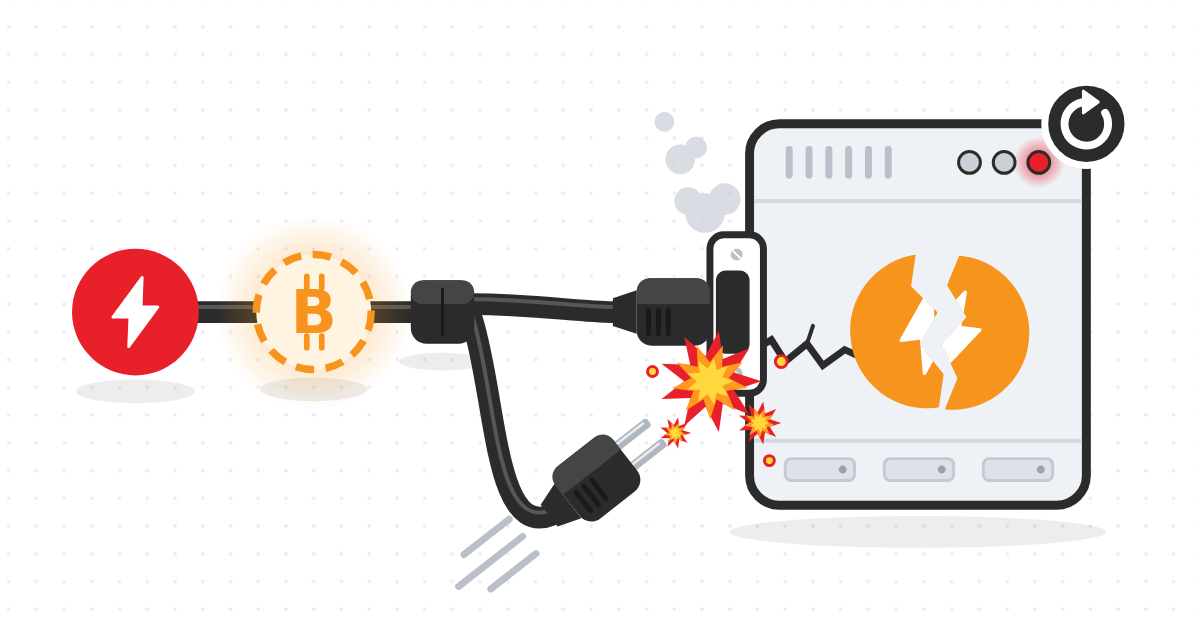
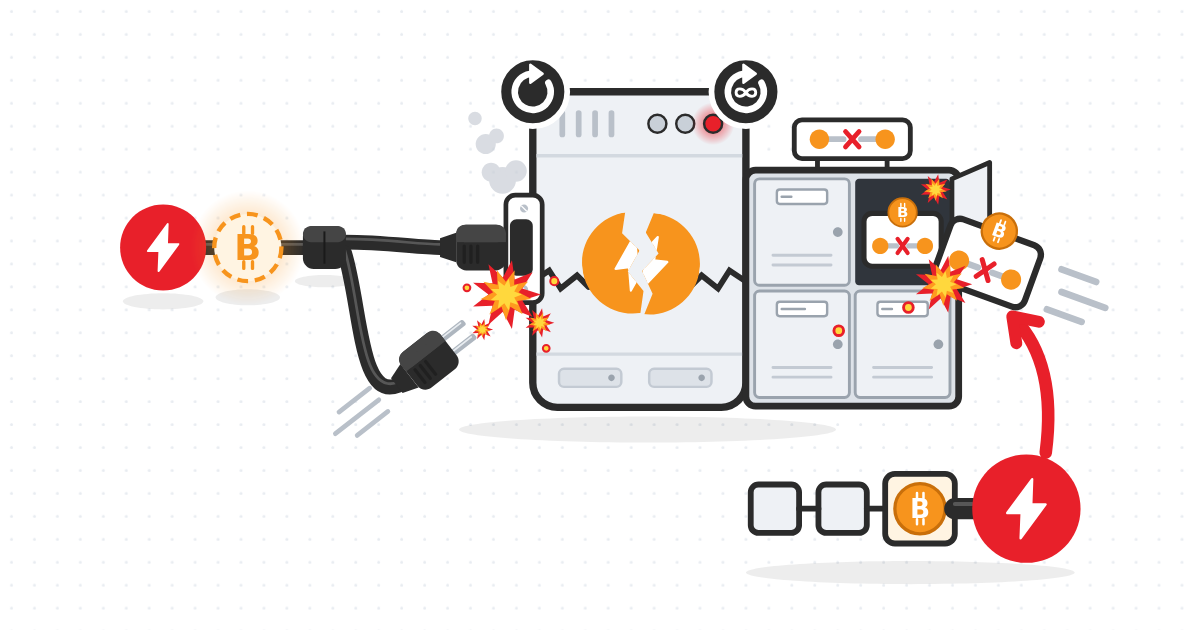
multi: add closed-channel variant to CLN reused outpoint writeup

Changed region(s): [[0.0617, 0.0905, 0.9558, 0.9349], [0.37, 0.181, 0.4008, 0.2111]]

diff --git a/_plugins/disclosure-box.rb b/_plugins/disclosure-box.rb
@@ -2,9 +2,23 @@
 #
 # Show the affected/fixed summary box at the top of any post whose
 # front matter has a `disclosure:` block (see _includes/disclosure.html).
+#
+# A post with `republished_from: <url>` also gets a note crediting the
+# original source, placed above the disclosure box.
+
+require 'uri'
 
 Jekyll::Hooks.register :posts, :pre_render do |post|
-  next unless post.data['disclosure']
+  header = ''
 
-  post.content = "{% include disclosure.html %}\n\n" + post.content
+  if (url = post.data['republished_from'])
+    host = URI(url).host.to_s.sub(/\Awww\./, '')
+    header += "> This advisory was originally published at [#{host}](#{url}) " \
+              "and is reproduced here for my personal security research archive.\n" \
+              "{: .prompt-info }\n\n"
+  end
+
+  header += "{% include disclosure.html %}\n\n" if post.data['disclosure']
+
+  post.content = header + post.content unless header.empty?
 end

diff --git a/_posts/2026-11-10-CLN-Reused-Funding-Outpoint-DoS.md b/_posts/2026-11-10-CLN-Reused-Funding-Outpoint-DoS.md
@@ -8,30 +8,34 @@ image:
   path: /assets/img/cln-reused-funding-outpoint-dos.png
   alt: Two channels opened on the same funding outpoint crashing a CLN node
 disclosure:
-  affected: "v0.12.0 through v26.06.2"
-  fixed: v26.06.6
-  fixed_url: https://github.com/ElementsProject/lightning/releases/tag/v26.06.6
-  impact: Remote node crash
+  affected: "v0.12.0 through v26.06.7"
+  fixed: v26.06.8
+  fixed_url: https://github.com/ElementsProject/lightning/releases/tag/v26.06.8
+  impact: Persistent remote node crash
+republished_from: https://lnfuzz.org/advisories/cln-duplicate-funding-outpoint-dos/
 ---
 
-Core Lightning _v0.12.0_ through _v26.06.2_ accept a `funding_created` that reuses the funding outpoint of an existing channel.
-Since a v1 `channel_id` is derived from the funding outpoint, two channels opened on the same outpoint share a `channel_id`.
-On reconnect, CLN hands its connection daemon a subdaemon for each channel, but the daemon looks them up by `channel_id` and finds the first one both times, so the second trips an assertion that crashes the whole node.
-The outpoint never has to exist on chain, so the attack is **free**, and the attacker can crash the node again by reconnecting after **every restart**.
+Core Lightning _v0.12.0_ through _v26.06.7_ accept a `funding_created` that reuses a funding outpoint already belonging to another channel.
+Since a v1 `channel_id` is derived from the funding outpoint, the two channels share a `channel_id`, allowing an attacker to crash the node in two ways.
+In the first variant the attacker reuses the outpoint of an unfunded (pending) channel and then reconnects to the victim, causing CLN to trip an assertion that crashes the whole node.
+This variant is free and repeatable.
+In the second and more severe variant reported by [Crypt-iQ](https://github.com/Crypt-iQ), the attacker reuses the outpoint of a _closed_ channel and then closes the second channel too, causing CLN to trip an assertion and then **crash-loop** on restart.
+This variant costs only on-chain fees and keeps the node offline with no further action from the attacker.
 
-Upgrade to [Core Lightning v26.06.6](https://github.com/ElementsProject/lightning/releases/tag/v26.06.6) or later.
+Both attacks are fixed in [Core Lightning v26.06.8](https://github.com/ElementsProject/lightning/releases/tag/v26.06.8), but later releases may contain further security fixes, so upgrade to the [latest release](https://github.com/ElementsProject/lightning/releases).
 
 ## Background
 
 The opener of a v1 channel names the funding outpoint in `funding_created`, and the _fundee_ answers with `funding_signed` before the funding transaction is broadcast.
 Both sides then identify the channel by a `channel_id` that BOLT 2 [derives](https://github.com/lightning/bolts/blob/191462825ae341f0a27098765c075f01ca9bc6c2/02-peer-protocol.md?plain=1#L62-L64) by XORing the funding output index into the funding txid, so two channels on the same outpoint share a `channel_id`.
 
-Core Lightning runs each channel in its own subdaemon, `channeld`, and its `connectd` daemon routes each peer message to the subdaemon for its `channel_id`.
+In Core Lightning, each channel runs in its own `channeld` subdaemon, with the `connectd` daemon routing peer messages to the corresponding subdaemon based on the `channel_id`.
 When a peer reconnects, `lightningd` starts a fresh subdaemon for each channel and hands it to `connectd`.
+`lightningd` also keeps closed channels in memory, in a `closed_channel_map`, which holds only one channel per `channel_id`.
 
 ## The vulnerability
 
-When CLN v26.06.2 is the fundee and receives `funding_created`, [`opening_fundee_finished()`](https://github.com/ElementsProject/lightning/blob/15a66cbc052f08c83daa8105bbe87d240e5c4980/lightningd/opening_control.c#L476-L581) derives the `channel_id` and saves the channel without looking for an existing channel on the same outpoint:
+When CLN v26.06.2 is the fundee and receives `funding_created`, [`opening_fundee_finished()`](https://github.com/ElementsProject/lightning/blob/c237b9ea1d1bbc610586f1fab36ed6f0948ca914/lightningd/opening_control.c#L476-L581) derives the `channel_id` and saves the channel without checking whether the outpoint already belongs to another channel, live or closed:
 
 ```c
 static void opening_fundee_finished(struct subd *openingd,
@@ -52,16 +56,7 @@ static void opening_fundee_finished(struct subd *openingd,
 					remote_commit,
 					&remote_commit_sig,
 					&funding,
-					funding_sats,
-					push,
-					channel_flags,
-					&channel_info,
-					feerate,
-					local_upfront_shutdown_script,
-					remote_upfront_shutdown_script,
-					type,
-					NULL,
-					false);
+					/* ... */);
 	/* ... handle failure, watch the funding tx, notify plugins. */
 
 	/* On to normal operation (frees if it fails!) */
@@ -74,17 +69,18 @@ failed:
 }
 ```
 
-`fwd_msg` is the `funding_signed`, which `channeld` sends on startup.
+In this code `fwd_msg` is the `funding_signed` that `channeld` sends on startup.
 The database doesn't catch the duplicate either, since it keys channels by an auto-incrementing ID.
 So a peer that runs the funding flow twice with the same outpoint gets `funding_signed` both times, leaving the victim with two channels that share a `channel_id`.
 
-The rest of CLN assumes `channel_id`s are unique.
-Both [`find_channel_by_id()`](https://github.com/ElementsProject/lightning/blob/15a66cbc052f08c83daa8105bbe87d240e5c4980/lightningd/channel.c#L870-L880) in `lightningd` and [`find_subd()`](https://github.com/ElementsProject/lightning/blob/15a66cbc052f08c83daa8105bbe87d240e5c4980/connectd/multiplex.c#L63-L86) in `connectd` return the first match, so the second channel can never be found by its `channel_id`.
+The rest of CLN assumes `channel_id`s are unique, for live and closed channels alike, so the collision causes issues later on.
 
 ### Reconnecting crashes `connectd`
 
-When the peer reconnects, `lightningd` [loops over its channels](https://github.com/ElementsProject/lightning/blob/15a66cbc052f08c83daa8105bbe87d240e5c4980/lightningd/peer_control.c#L1567-L1582) and hands `connectd` a subdaemon for each one, identified only by `channel_id`.
-[`peer_connect_subd()`](https://github.com/ElementsProject/lightning/blob/15a66cbc052f08c83daa8105bbe87d240e5c4980/connectd/multiplex.c#L1685-L1736) handles each request:
+When both channels are live, lookups go wrong: [`find_channel_by_id()`](https://github.com/ElementsProject/lightning/blob/c237b9ea1d1bbc610586f1fab36ed6f0948ca914/lightningd/channel.c#L870-L880) in `lightningd` and [`find_subd()`](https://github.com/ElementsProject/lightning/blob/c237b9ea1d1bbc610586f1fab36ed6f0948ca914/connectd/multiplex.c#L63-L86) in `connectd` both return the first match, so the second channel can never be found by its `channel_id`.
+
+When the peer reconnects, `lightningd` [loops over its channels](https://github.com/ElementsProject/lightning/blob/c237b9ea1d1bbc610586f1fab36ed6f0948ca914/lightningd/peer_control.c#L1562-L1577) and hands `connectd` a subdaemon for each one, identified only by `channel_id`.
+[`peer_connect_subd()`](https://github.com/ElementsProject/lightning/blob/c237b9ea1d1bbc610586f1fab36ed6f0948ca914/connectd/multiplex.c#L1685-L1736) handles each request:
 
 ```c
 void peer_connect_subd(struct daemon *daemon, const u8 *msg, int fd)
@@ -110,27 +106,63 @@ void peer_connect_subd(struct daemon *daemon, const u8 *msg, int fd)
 
 The first request finds or creates the subdaemon for that `channel_id` and gives it the connection.
 The second request carries the same `channel_id`, so `find_subd()` returns that same subdaemon, which already has a connection, and `assert(!subd->conn)` fails.
-`connectd` aborts, and because `lightningd` [treats that as fatal](https://github.com/ElementsProject/lightning/blob/15a66cbc052f08c83daa8105bbe87d240e5c4980/lightningd/subd.c#L663-L669), the whole node goes down.
+`connectd` aborts, and because `lightningd` [treats that as fatal](https://github.com/ElementsProject/lightning/blob/c237b9ea1d1bbc610586f1fab36ed6f0948ca914/lightningd/subd.c#L663-L669), the whole node goes down.
 Both channels are still in the database after a restart, so the next reconnect crashes the node again.
 
 The assertion was [added](https://github.com/ElementsProject/lightning/commit/41b379ed897ad24bf2d68ce022eb15339e430761) in v0.12.0, when `lightningd` began handing connections to `connectd` per channel.
 Releases before v0.12.0 also lack the outpoint check but don't crash, because their `connectd` [ignored](https://github.com/ElementsProject/lightning/blob/c9587ab17b58b8d3c1b03f009580e14f261fa8e1/connectd/multiplex.c#L491-L515) a request for a `channel_id` it already had a subdaemon for.
 
+### Closing crashes `lightningd`
+
+When the first channel is already closed, the collision surfaces when the new channel closes instead.
+[`closed_channel_map`](https://github.com/ElementsProject/lightning/blob/c237b9ea1d1bbc610586f1fab36ed6f0948ca914/lightningd/closed_channel.h#L37-L50) is a hash table keyed by `channel_id` that doesn't allow duplicates:
+
+```c
+static inline const struct channel_id *keyof_closed_channel(const struct closed_channel *cc)
+{
+	return &cc->cid;
+}
+
+/* ... */
+
+HTABLE_DEFINE_NODUPS_TYPE(struct closed_channel, keyof_closed_channel, hash_cid, closed_channel_eq_cid,
+			  closed_channel_map);
+```
+
+The closed channel already sits in the map under its `channel_id`, and the new channel on the same outpoint carries that same `channel_id`.
+When the new channel closes too, `lightningd` adds it to the map, causing `closed_channel_map_add()` to fail its "no-duplicates" assertion and abort `lightningd`.
+The channel's funding spend is already recorded in the database, so every restart re-spawns `onchaind`, which resolves the channel again and triggers the same assertion failure.
+
+The map was [added](https://github.com/ElementsProject/lightning/commit/1fe5644bf28b0a1f7c5d8542ac96cd535139330f) in v25.05, when `lightningd` began keeping closed channels in memory, so earlier releases are not affected by this variant.
+
 ## The attack
 
-An attacker completes the BOLT 8 handshake and `init` exchange as an ordinary peer.
-It then runs the v1 funding flow twice, naming the same outpoint in both `funding_created` messages and receiving `funding_signed` each time.
+Both variants start the same way: the attacker completes the BOLT 8 handshake and `init` exchange as an ordinary peer, then gets the victim to accept two channels on the same funding outpoint.
+
+In the reconnect variant, both channels stay live.
+The attacker runs the v1 funding flow twice, naming the same outpoint in both `funding_created` messages and receiving `funding_signed` each time.
 The outpoint never has to exist on chain, so the attack costs nothing.
 Finally, the attacker disconnects and reconnects, and the request for the second channel trips the assertion in `connectd`.
 
+In the closed-channel variant, the first channel is _marked_ as closed before the second one is opened.
+The attacker funds a channel with the victim and gets it recorded as closed without spending its funding outpoint.
+It then opens a second channel on the same outpoint.
+Finally, the attacker causes the second channel to be recorded as closed too, under the same `channel_id`, which trips the assertion in `lightningd`.
+The channel funds return to the attacker, so the attack costs only on-chain fees.
+
 ### Observed impact
 
-The node goes down on the first reconnect and again on every reconnect after a restart, so the attacker can keep it offline at no further cost.
-While it is down, the node can't watch the chain, so it can miss a peer broadcasting a revoked commitment or an HTLC it must claim before it expires, putting funds in its other channels at risk.
+The reconnect crash takes the node down every time the attacker reconnects, so the attacker can repeat the attack indefinitely unless the node operator blocks them at the network level.
+The closed-channel variant is worse: once triggered, the node crash-loops on its own and stays down until it is upgraded.
+Either way, while the node is down it can't watch the chain, so it can miss a peer broadcasting a revoked commitment or an HTLC it must claim before it expires, putting funds in its other channels at risk.
 
 ## The fix
 
-[PR #9318](https://github.com/ElementsProject/lightning/pull/9318), merged 2026-07-16 and released in v26.06.6, makes two changes.
+Both crashes were fixed the same way: by refusing a new channel that would share another channel's `channel_id` and by tolerating duplicates that existing nodes had already stored.
+
+### Fixing the reconnect crash
+
+[PR #9318](https://github.com/ElementsProject/lightning/pull/9318), merged 2026-07-16 and released in v26.06.6, fixes the reconnect variant we reported and makes two changes.
 First, [`opening_fundee_finished()`](https://github.com/ElementsProject/lightning/blob/c7a013c821432d598a1dee39714ad667fffcdd73/lightningd/opening_control.c#L476-L590) now checks the funding outpoint against the peer's other channels and, on a match, disconnects before the channel is stored or `funding_signed` is sent:
 
 ```c
@@ -158,27 +190,65 @@ static void opening_fundee_finished(struct subd *openingd,
 
 Second, [`peer_connect_subd()`](https://github.com/ElementsProject/lightning/blob/c7a013c821432d598a1dee39714ad667fffcdd73/connectd/multiplex.c#L1735-L1741) no longer asserts when a subdaemon already has a connection, but keeps the existing connection and closes the new one, so nodes that already stored duplicate channels don't crash on reconnect.
 
-The outpoint check still lets through a different outpoint whose XOR gives the same `channel_id`, so commit [`7c6926c`](https://github.com/ElementsProject/lightning/commit/7c6926c16f2b9bbdcd45e36b62e8dfcb09865b15), released in [v26.06.8](https://github.com/ElementsProject/lightning/releases/tag/v26.06.8), closes that gap by refusing any new channel whose `channel_id` is already used by another live or closed channel.
+This fixed the reconnect crash, but [`find_channel_by_funding_outpoint()`](https://github.com/ElementsProject/lightning/blob/c7a013c821432d598a1dee39714ad667fffcdd73/lightningd/channel.c#L882-L892) only matches the peer's _live_ channels, so reusing a closed channel's outpoint still worked.
+
+### Fixing the closing crash
+
+Commit [`84bfdf4`](https://github.com/ElementsProject/lightning/commit/84bfdf4fe1f8176cf361d474a12df20cfa704778), released in v26.06.8, fixes the closed-channel variant reported by Crypt-iQ and makes two changes.
+First, [`opening_fundee_finished()`](https://github.com/ElementsProject/lightning/blob/84bfdf4fe1f8176cf361d474a12df20cfa704778/lightningd/opening_control.c#L485-L603) now also refuses a channel whose `channel_id` is used by any live or closed channel:
+
+```c
+static void opening_fundee_finished(struct subd *openingd,
+				    const u8 *reply,
+				    const int *fds,
+				    struct uncommitted_channel *uc)
+{
+	/* ... parse openingd's reply. */
+
+	derive_channel_id(&cid, &funding);
+
+	/* A funding outpoint funds at most one channel; don't accept a second
+	 * channel reusing one we already have, with this or any other peer,
+	 * open or closed: the channel_id would collide.  Drop the connection
+	 * so the peer's open fails cleanly instead of waiting for
+	 * funding_signed. */
+	if (find_channel_by_funding_outpoint(uc->peer, &funding)
+	    || channel_id_in_use(ld, &cid, NULL)) {
+		force_peer_disconnect(ld, uc->peer,
+				      "Funding outpoint already in use");
+		return;
+	}
+
+	/* ... commit the channel and start channeld. */
+}
+```
+
+The new [`channel_id_in_use()`](https://github.com/ElementsProject/lightning/blob/84bfdf4fe1f8176cf361d474a12df20cfa704778/lightningd/channel.c#L881-L900) checks the live and closed channels of every peer, and the funder and dual-funding paths now run the same check.
+
+Second, [`closed_channel_map`](https://github.com/ElementsProject/lightning/blob/84bfdf4fe1f8176cf361d474a12df20cfa704778/lightningd/closed_channel.h#L49-L53) now allows duplicates, so nodes that already stored duplicate channels can still load and close them.
 
 ## Discovery
 
 While fuzzing CLN's funding flow, smite flagged that CLN would answer a `funding_created` reusing another channel's funding outpoint with `funding_signed`.
 At first this looked like a spec violation with no security impact, so it was reported publicly as [issue #9274](https://github.com/ElementsProject/lightning/issues/9274).
 Further investigation surfaced the crash on reconnect, which was reported privately, and experiments confirmed that reconnecting after every restart crashes the node again.
+The closed-channel variant was reported to Core Lightning separately by [Crypt-iQ](https://github.com/Crypt-iQ), and we reproduced it on regtest to confirm the crash loop.
 
 ### Timeline
 
-- **2026-07-03:** Duplicate funding outpoint reported publicly as a spec violation in [issue #9274](https://github.com/ElementsProject/lightning/issues/9274).
+- **2026-07-02:** Duplicate funding outpoint reported publicly as a spec violation in [issue #9274](https://github.com/ElementsProject/lightning/issues/9274).
 - **2026-07-08:** Crash on reconnect reported privately to Core Lightning.
 - **2026-07-14:** Core Lightning acknowledged the report and began working on a fix.
 - **2026-07-16:** Fix merged as [PR #9318](https://github.com/ElementsProject/lightning/pull/9318).
-- **2026-07-20:** [Core Lightning v26.06.6](https://github.com/ElementsProject/lightning/releases/tag/v26.06.6) released with the fix.
-- **2026-10-23:** Core Lightning approved public disclosure.
-- **2026-11-10:** Public disclosure.
+- **2026-07-22:** [Core Lightning v26.06.6](https://github.com/ElementsProject/lightning/releases/tag/v26.06.6) released with the fix for the reconnect variant.
+- **2026-09-22:** [Core Lightning v26.06.8](https://github.com/ElementsProject/lightning/releases/tag/v26.06.8) released with the fix for the closed-channel variant.
+- **2026-10-23:** Core Lightning approved public disclosure of the reconnect variant.
+- **2026-11-13:** Core Lightning approved public disclosure of the closed-channel variant.
+- **2026-11-13:** Public disclosure.
 
 ## Takeaways
 
-- **Upgrade to the latest Core Lightning release, currently v26.06.10.**
+- **Upgrade to the latest Core Lightning release.**
   Vulnerabilities are being found faster than ever, and older releases quickly fall behind on fixes.
 - **Never assert on state a peer can influence.**
   A peer that can break an assertion can crash the node, so any case that isn't provably impossible must be handled gracefully.

diff --git a/_posts/2026-09-24-LND-Malformed-Channel-Announcement-Gossip-Stall.md b/_posts/2026-09-24-LND-Malformed-Channel-Announcement-Gossip-Stall.md
@@ -12,6 +12,7 @@ disclosure:
   fixed: v0.20.1
   fixed_url: https://github.com/lightningnetwork/lnd/releases/tag/v0.20.1-beta
   impact: Remote gossip stall
+republished_from: https://security.lightning.engineering/2026/09/21/lnd-gossip-validation-barrier-stall.html
 ---
 
 LND _v0.19.0_ through _v0.20.0_ can send two validation results for a gossip message on a channel that has room for only one.
